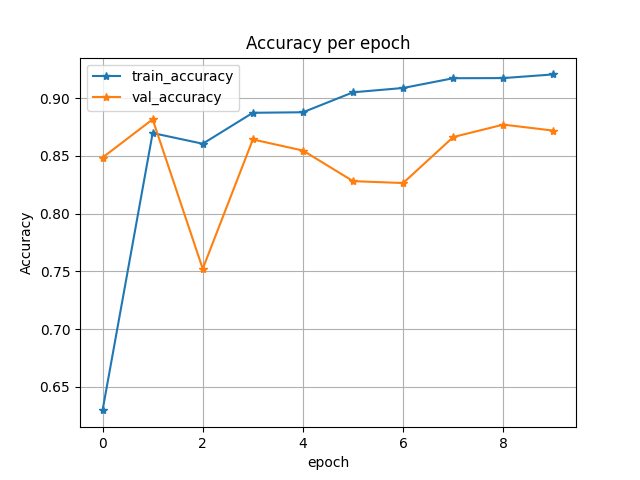
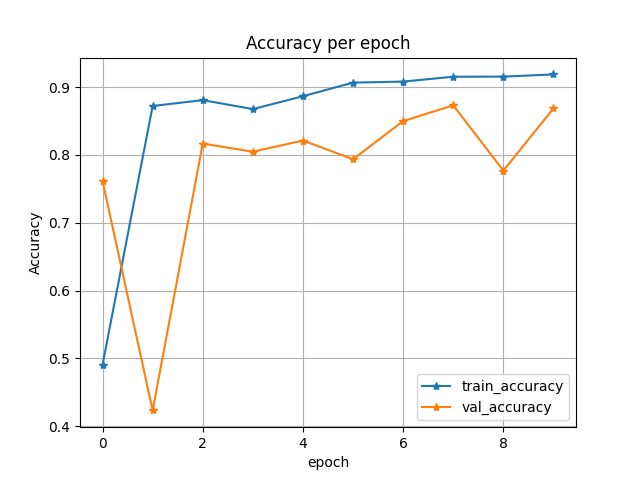
update

diff --git a/src/train.py b/src/train.py
@@ -36,8 +36,16 @@ def train_model(p: dict, save_path: str) -> dict:
     train_loader = DataLoader(train_set, batch_size=p['batch_size'], shuffle=True, num_workers=os.cpu_count() // 2)
     val_loader = DataLoader(val_set, batch_size=p['batch_size'], shuffle=False, num_workers=os.cpu_count() // 2)
 
-    model = smp.Unet('mobilenet_v2', encoder_weights='imagenet', classes=5, activation=None, encoder_depth=5,
-                     decoder_channels=[256, 128, 64, 32, 16])
+    # model = smp.Unet('mobilenet_v2', encoder_weights='imagenet', classes=5, activation=None, encoder_depth=5,
+    #                  decoder_channels=[256, 128, 64, 32, 16])
+
+    model = smp.Unet(
+        encoder_name="resnet34",  # choose encoder, e.g. mobilenet_v2 or efficientnet-b7
+        encoder_weights="imagenet",  # use `imagenet` pre-trained weights for encoder initialization
+        in_channels=3,  # model input channels (1 for gray-scale images, 3 for RGB, etc.)
+        classes=5,  # model output channels (number of classes in your dataset)
+    )
+
     model.to(device)
     torch.cuda.empty_cache()
 
@@ -148,7 +156,7 @@ def train_model(p: dict, save_path: str) -> dict:
                         f"Time: {time.time() - since:.2f} \n")
 
     logger.info(f'Total time: {(time.time() - fit_time) / 60:.2f} m')
-    torch.save(model, os.path.join(save_path, f'Unet-Mobilenet2.pt'))
+    torch.save(model, os.path.join(save_path, f'Resnet34.pt'))
     return history
 
 

diff --git a/README.md b/README.md
@@ -1,1 +1,19 @@
-# OFFSEG
+# Traversability prediction of the environment for mobile robots
+
+This repository contains code for training and testing a neural network for predicting the traversability of the
+environment for mobile robots. The networks are trained od RELLIS-3D and RUGD datasets. The code is based on
+the [PyTorch](https://pytorch.org/) framework.
+The benchmarking results are not yet published, but will be soon.
+
+## Installation
+
+First clone the repository:
+
+    git clone https://github.com/aleskucera/OFFSEG.git
+
+then install anaconda and create a new environment:
+
+    cd OFFSEG
+    conda env create -f environment.yaml
+
+
